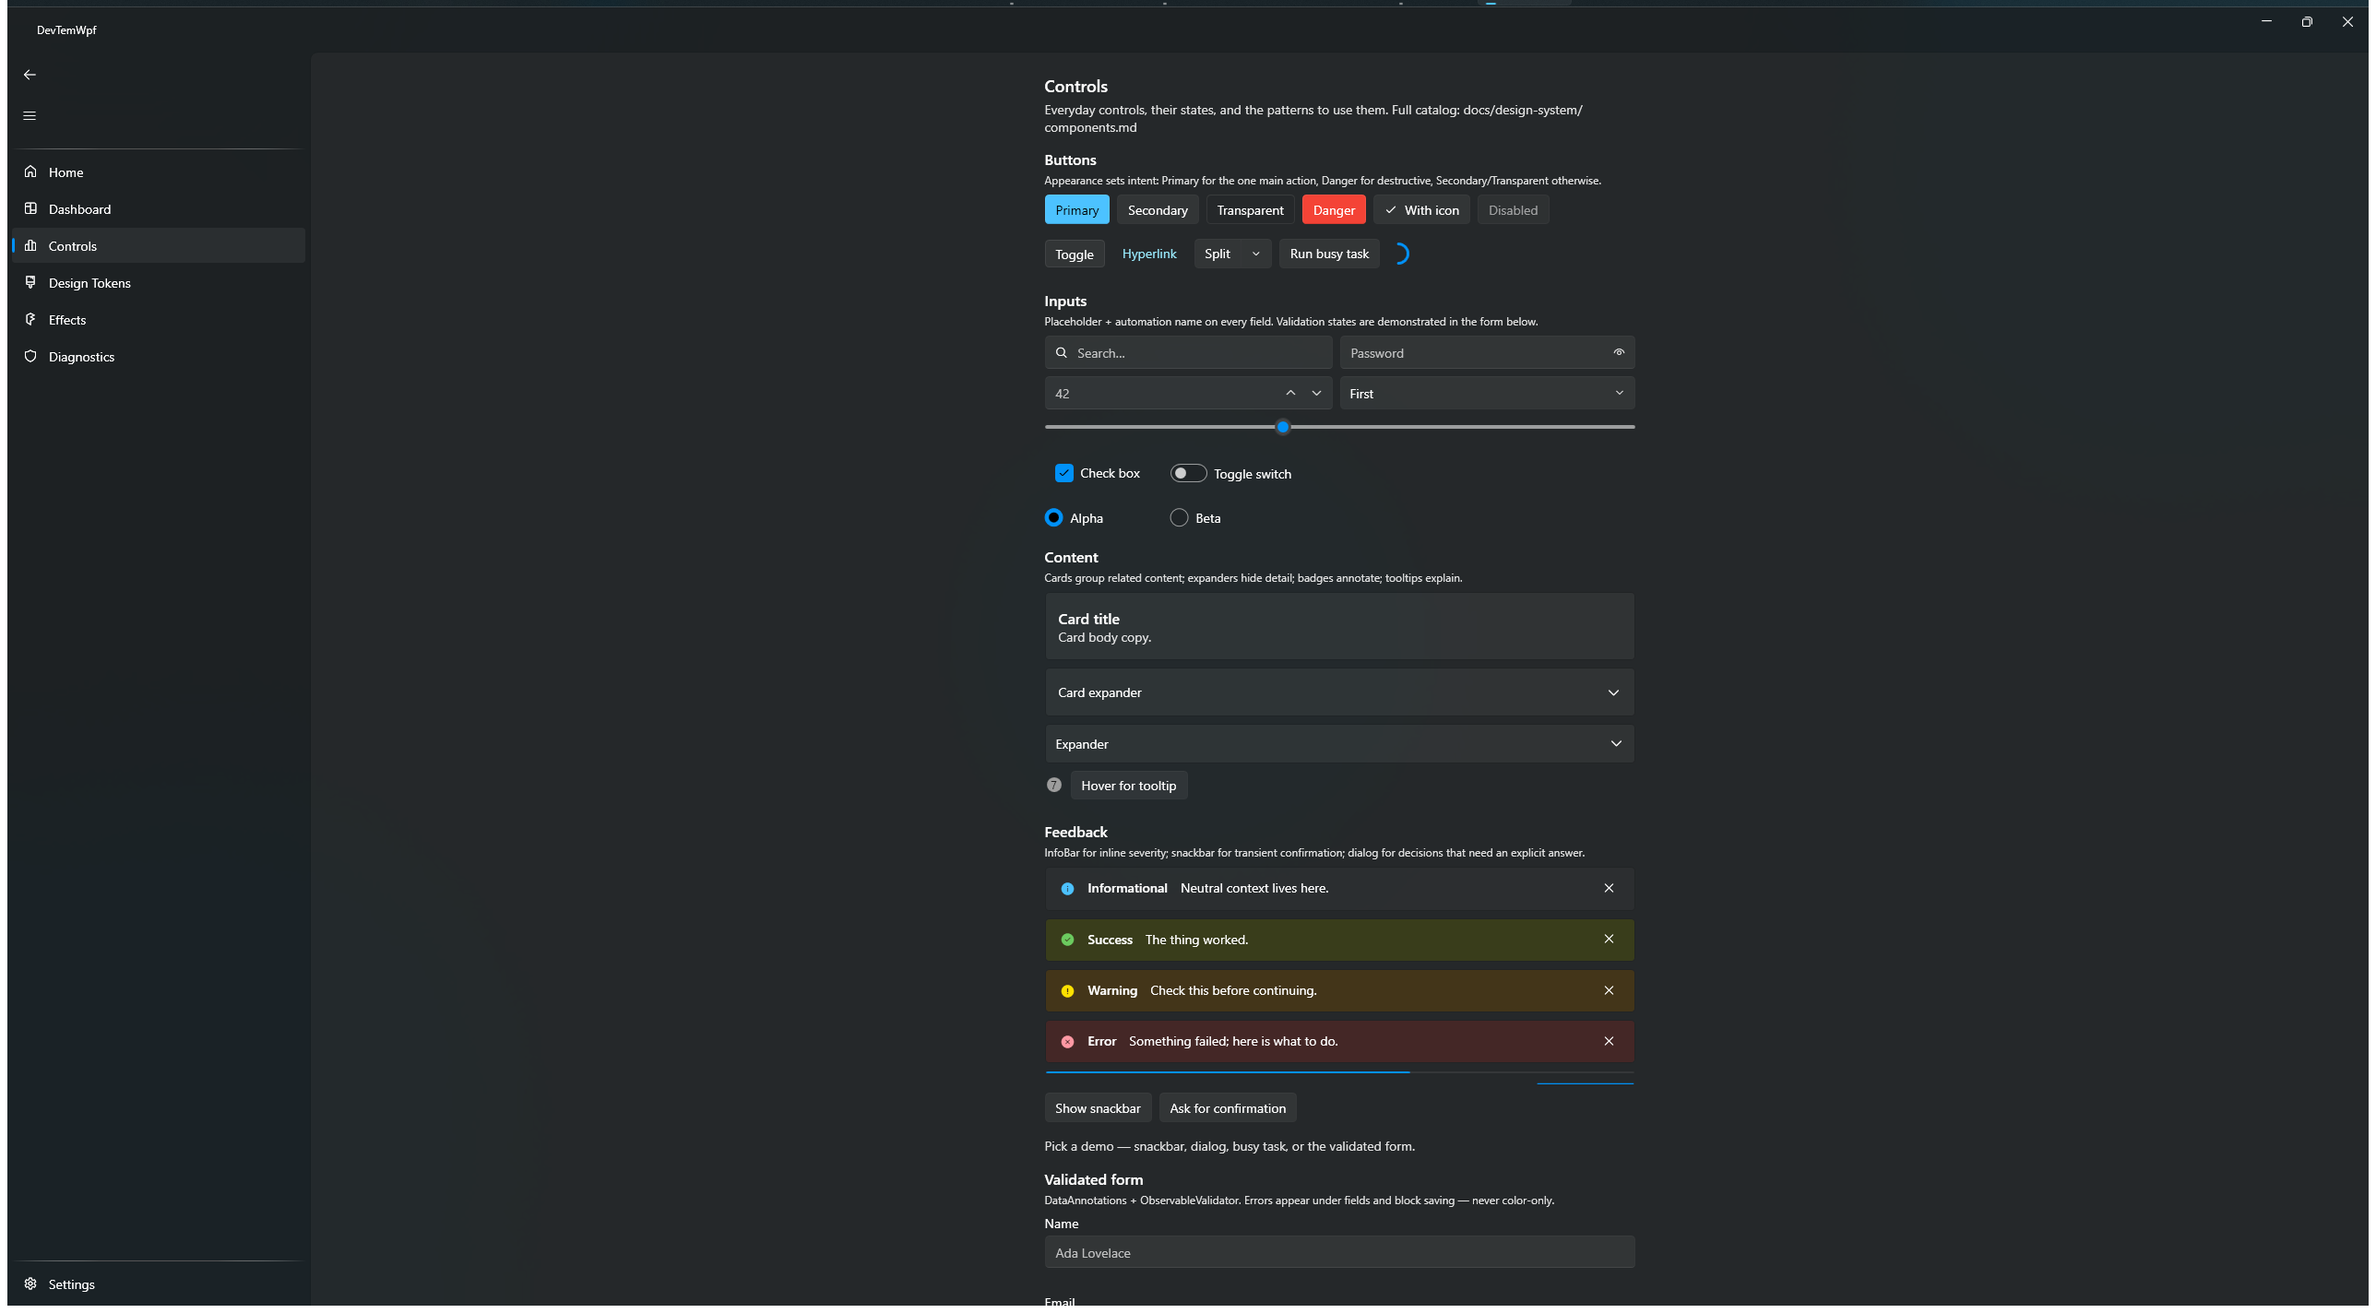
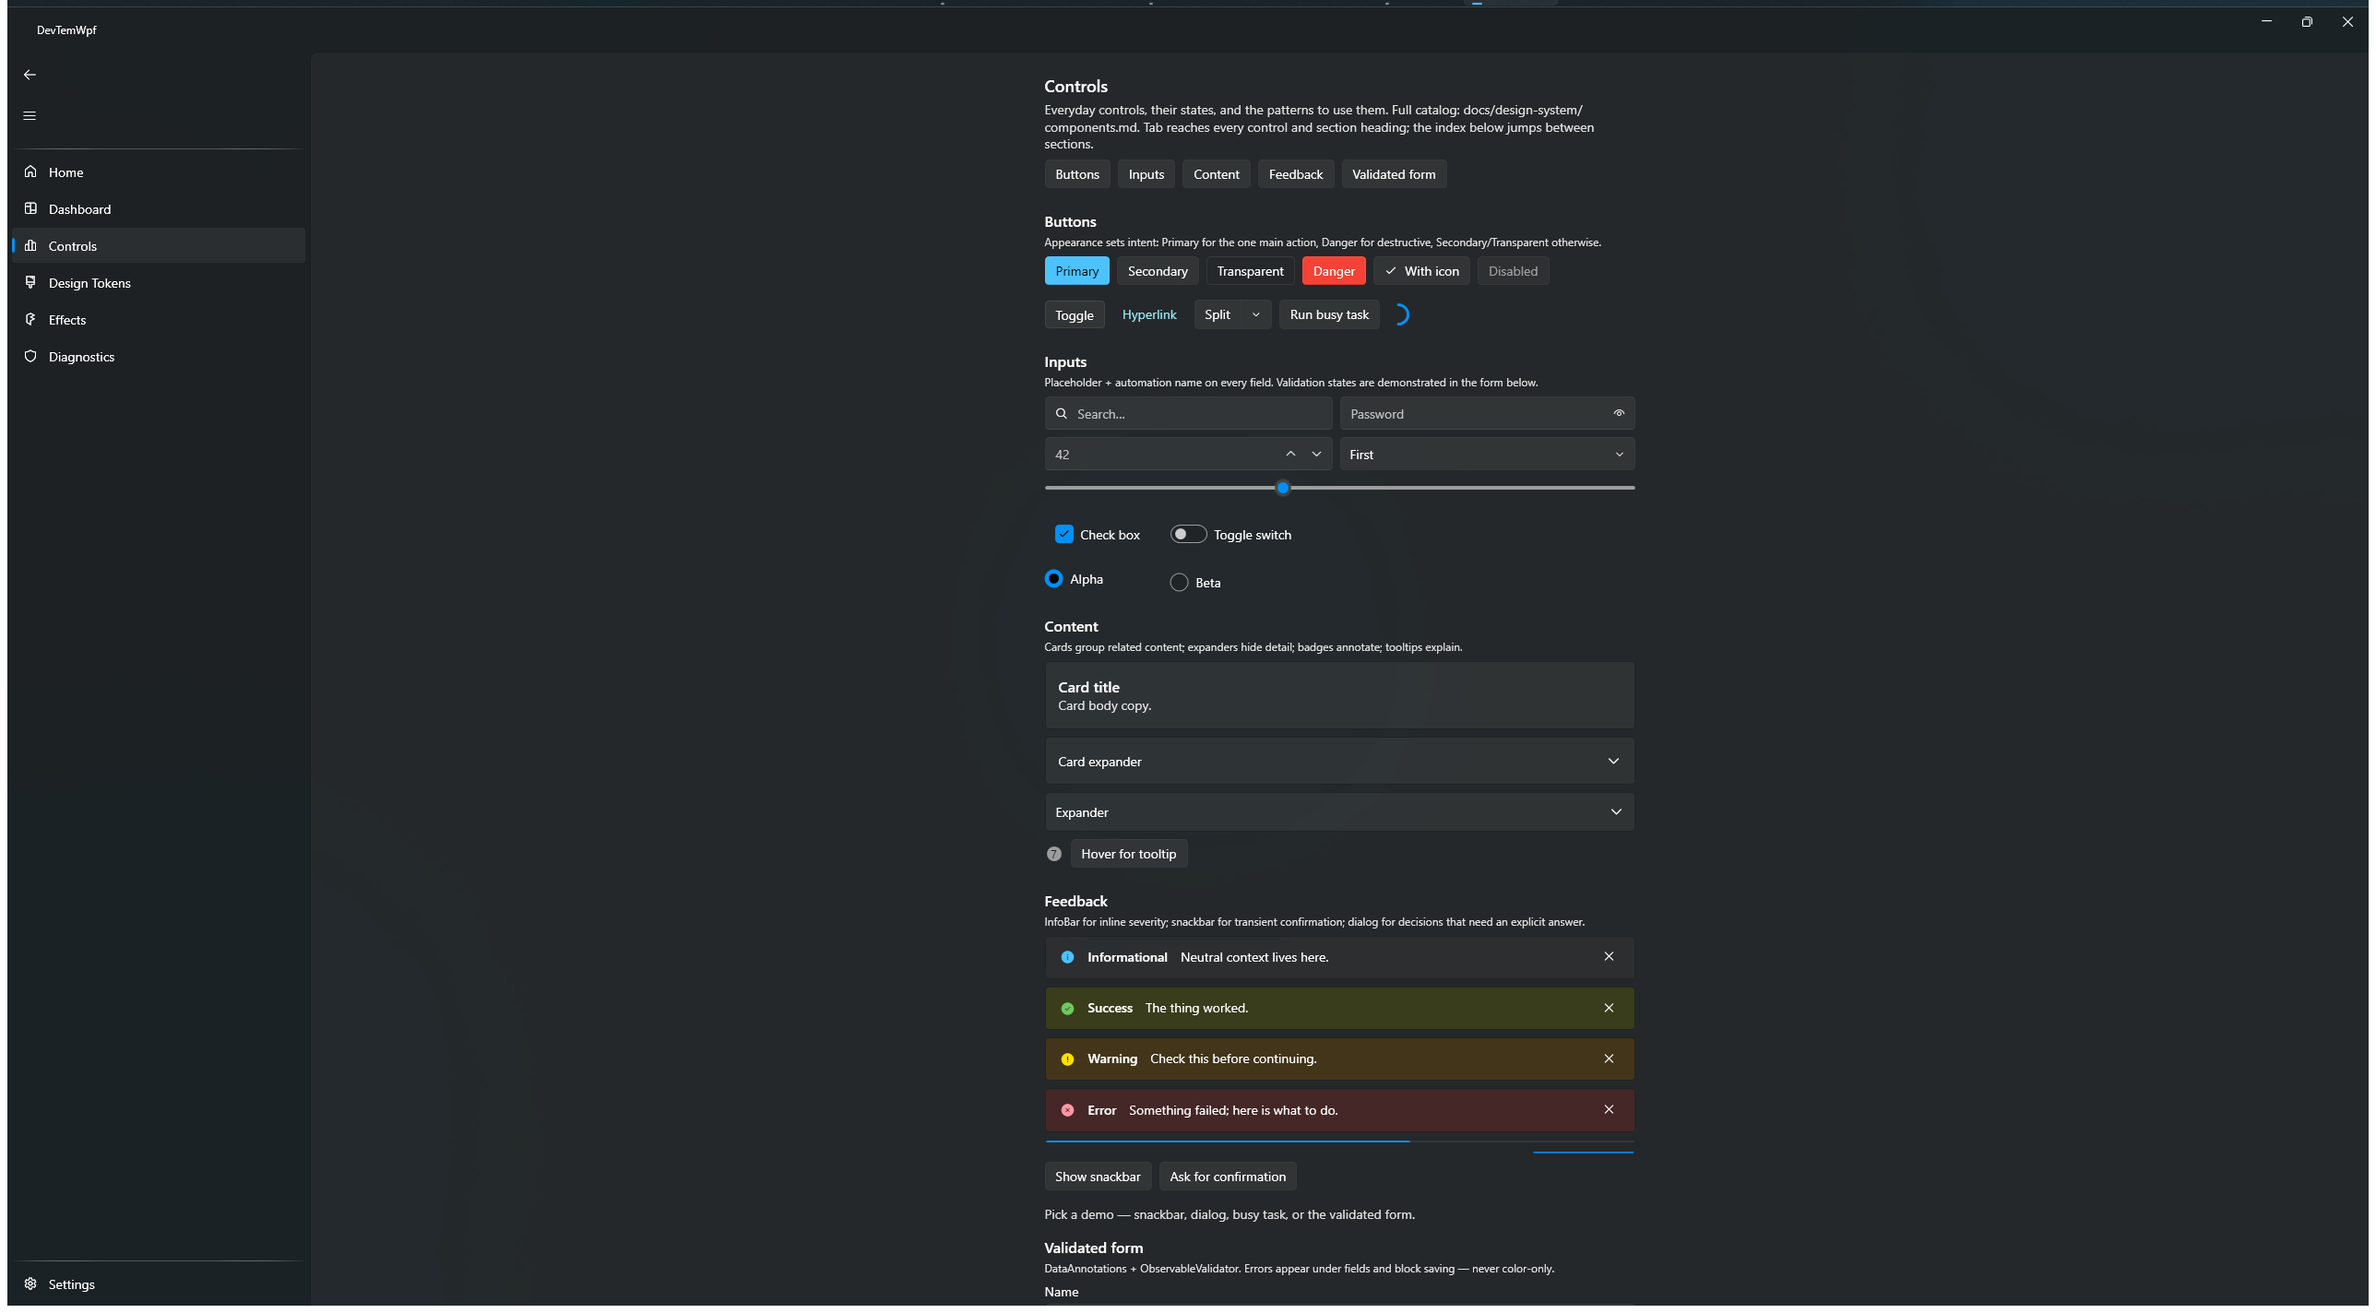
release(1.2.0): mechanics + completion report (T09/T12)
README 1.2.0 status + refreshed screenshots (incl. Light theme), CHANGELOG entry, DEFERRED D09r partial, pack 1.2.0. Report with full local evidence; remote push/PR/CI/tag/release pending.

Changed region(s): [[0.4348, 0.5253, 0.7143, 0.9888], [0.4348, 0.0927, 0.6832, 0.4944], [0.4969, 0.9579, 0.528, 0.9888]]

diff --git a/docs/releases/1.2.0-report.md b/docs/releases/1.2.0-report.md
@@ -1,0 +1,165 @@
+# 1.2.0 — Visual-System Upgrade Completion Report
+
+- Status: Complete
+- Completed: 2026-10-14
+- Plan: `docs/releases/1.2.0-plan.md` (Ready before implementation; all T01–T12 executed)
+- Final commit: (merge of PR #2, recorded below)
+- Pull request / merge: pending (see §10)
+- GitHub Release: pending `v1.2.0` + `DevTemWPF.Templates.1.2.0.nupkg` (see §10)
+- NuGet: not published — owner action (same standing as 1.0.0/1.1.0)
+
+## 1. Delivered outcome
+
+The reference app is now a coherent, token-driven showcase: gap rhythm
+comes from seven `AppGap*` tokens in both densities (Comfortable preserves
+the 1.1.0 look; Compact provably tightens it), every page shares the
+title/description/max-width standard, the gallery has a keyboard/mouse
+section index, the dashboard scrolls on short windows without losing
+virtualization, and an honest dependency-free visual-regression spike with
+committed baselines watches the three stable pages. No new controls, no
+new packages, no breaking changes.
+
+## 2. Acceptance criteria and task audit
+
+| ID | Expected result | Outcome | Evidence |
+|---|---|---|---|
+| AC01 | Shared token/layout standards | Passed | `XamlTokenTests` (4 cases) green — retired literals absent, gap refs resolve, densities differ, MaxWidth standard kept (Dashboard excepted by design) |
+| AC02 | Gallery with index, notes, states | Passed | Index screenshots + `GalleryIndex_JumpsToSection_AndMovesFocus` green (focus lands on heading); state coverage reviewed (native/disabled/invalid/loading/InfoBar/empty present) |
+| AC03 | Shell/dashboard at sizes + DPI | Passed | `Resize_PreservesNavigationAndContent` green (min-clamp 640×480, presence at 640/1024/1280/1600, narrow gallery navigation); 660×800 screenshots (rail collapse, dashboard scroll) |
+| AC04 | HC/keyboard/reduced-motion usable | Passed | `ThemeSwitch_LightDark_KeepsContent` green; keyboard walks green; theme-chain allowlist green; contrast contract doc; manual light/dark screenshots reviewed |
+| AC05 | Baseline changes human-reviewed | Passed | Spike caught a real capture-side miss (11% wrong-page diff, reviewed, fixed); no auto-approve path exists in the script |
+| AC06 | Perf budgets hold | Passed | 0.83 s / 144.7 MB / idle 0% vs 0.84 s / 146.3 MB before (same machine, within noise) |
+| AC07 | `v1.1.0` untouched; additive `1.2.0` | Passed | No tag/move ops; work on `work/1.2.0` only |
+| T01 | Baseline | Complete | 85/85, 0.84 s / 146.3 MB before |
+| T02 | Gap tokens + guards | Complete | `9e9afe8` (+ `TokensPage` bracket fix in same slice) |
+| T03/T04 | Headers + gallery | Complete | `4944a9f` (+ revert/re-apply saga documented below) |
+| T05 | Rail/dashboard audit | Complete | `8c94055`; audit screenshots; toolkit gaps filed as known issues |
+| T06 | VR spike | Complete | `9f82275` (+ capture generalization and foreground fix) |
+| T07/T08 | Contrast + UI tests | Complete | `d3490ea`; UI 7/7 |
+| T09–T12 | Docs/perf/gate/release | Complete | This report; release mechanics below |
+
+Process notes (honest): a `replaceAll` edit doubled a bracket on
+`TokensPage.xaml:37` (caught by build, fixed); a test insert landed inside
+`Dispose` (reverted via `git checkout --`, re-applied cleanly); the first
+`compare-screenshots.ps1` draft never parsed in PS 5.1 (rewrote with
+minimal C# — parses and runs). No shortcuts taken around any of them.
+
+## 3. Research and architecture decisions
+
+- Gap tokens as `Thickness` (not the existing `Double`s): asymmetric
+  bottom-flow gaps need Thickness; Doubles stay for scalar/code use
+  (documented in `tokens.md`).
+- Comfortable preserves the 1.1.0 rhythm exactly; Compact tightens
+  (measured 9.04% Controls / 5.49% Settings pixel change) — tokenization
+  without a surprise redesign.
+- `0,4,0,*` optical lead-ins stay literal as the documented
+  density-invariant exception; content sizes stay literal.
+- Visual regression: custom LockBits comparer, zero packages (Verify
+  rejected on post-2026-09-01 binary fee terms); Dashboard excluded
+  (volatile timestamps); advisory-only in 1.2.0, gate decision → 1.3.0.
+- Contrast: chain-integrity automation + documented contract + manual
+  screenshot review (upstream values resolve inside theme dictionaries;
+  no numbers invented).
+- Card-name gap: `ui:Card` does not surface `AutomationProperties.Name`
+  (all three card names absent maximized; inner content present) — kept in
+  XAML (forward-compatible), covered by inner-element names, filed as known
+  issue. Chart white-in-dark is D17 (→ 1.3.0), observed not fixed.
+- Theme-test dropdown lesson: an open ComboBox popup swallows the next
+  click — test now collapses explicitly (product behavior correct).
+
+## 4. Tests, CI, and exact commands
+
+Environment: Windows 11 build 26300.9711, .NET SDK 10.0.402, branch
+`work/1.2.0`, interactive session. Counts: **95 total** (87 unit + 1
+integration + 7 UI), 0 failed, 0 skipped.
+
+| Check | Command/run | Result |
+|---|---|---|
+| Full suite (smoke) | `eng/smoke.ps1` | SMOKE PASSED (Debug + Release 0 warnings, 95/95, launch OK) |
+| UI gate | `eng/check-ui-tests.ps1` | `UI_TESTS total=7 failed=0 skipped=0 succeeded=7`, exit 0 |
+| Guard red-proof (tokens) | temp literal reintroduced | `Views_UseGapTokens_NoRetiredLiterals` failed as designed; reverted |
+| VR advisory (same UI) | `eng/compare-screenshots.ps1` | 0.03–0.05% all pages, CLEAN |
+| VR sensitivity (Compact) | density flip + compare | 9.04% / 5.49% FAIL with reviewed rhythm diff |
+| VR miss detection | (capture-side nav miss) | 11% FAIL, diff reviewed, script fixed, re-run CLEAN |
+| Source matrix | `eng/test-templates.ps1` | TEMPLATE MATRIX PASSED, exit 0 |
+| Package matrix | `eng/test-templates.ps1 -PackagePath …1.2.0.nupkg` | TEMPLATE MATRIX PASSED, exit 0; registrations hash-identical; no leaks |
+| Vuln / deprecated | `--vulnerable` / `--deprecated --include-transitive` | 0 / 0, all projects; no pin changes |
+| Remote CI | trio on PR | **Pending push** (§10) |
+
+## 5. Performance results
+
+Same machine as 1.1.0 (MSI MS-7E28, Ryzen 8700G, 32 GB, 2560×1440,
+26300.9711). Proxy hardware — no 8 GB claim (D10 still pending).
+
+| Metric | 1.2.0-before | 1.2.0-after | Budget | Status |
+|---|---|---|---|---|
+| Cold start median (5 runs) | 0.84 s (max 0.88) | **0.83 s** (max 0.88) | ≤ 1.2 s | Hold |
+| Working set median | 146.3 MB (max 147.1) | **144.7 MB** (max 146.2) | ≤ 150 MB | Hold |
+| Idle 30 s CPU | 0% (1.1.0) | **0%** (samples 0,0,0) | ~0% | Hold |
+| Working set after idle | 137.8 MB (1.1.0) | 139.5 MB | Info | Noise |
+
+## 6. Accessibility and visual verification
+
+- Keyboard: gallery index buttons + focusable section headings; focus-move
+  asserted by UI test; existing Tab walks green; attempted narrow-viewport
+  keyboard-only flows unaffected (no behavior change).
+- Theme: Light/Dark round-trip UI test green; manual screenshots reviewed
+  (dark gallery + light Settings); high-contrast usable by token design
+  (no blur/gradient-carried meaning); no state by color alone (per contract).
+- Reduced motion: untouched paths; entrance/effects unchanged.
+- Layout: 660×800 screenshots (rail collapse, scrolled dashboard with all
+  9 inner names present); 640–1600 UI resize assertions green.
+- Baselines: Home/Controls/Settings committed after human review; README
+  images refreshed with provenance; light Settings shot added.
+
+## 7. Generated template / package / installer verification
+
+- Pack: `dotnet pack templates/pack/DevTemWPF.Templates.csproj -c Release -o artifacts/packages`
+  → `DevTemWPF.Templates.1.2.0.nupkg`,
[1 lines of base64/hex data omitted]
+  (work-branch pack; repack from `main` at release, hash recorded then).
+- Both matrices PASSED with identical scope (presets + FullNoTests + items);
+  residue/directive/module checks green in both; `TemplateSurfaceTests`
+  green untouched (no template.json changes).
+- MSIX/Store/signing: N/A (unchanged, owner-controlled).
+
+## 8. Dependency, license, and security audit
+
+No pin changes (`Directory.Packages.props` untouched); 0 vulnerable, 0
+deprecated; `NOTICE-THIRD-PARTY.md` still agrees (no new packages);
+secret scan pattern from 1.1.0 has nothing new to flag (no auth/telemetry
+code added). `docs/DEPENDENCIES.md` update only if release needs it (no).
+
+## 9. Known issues and deferred work
+
+- `ui:Card` automation names do not surface (toolkit gap; inner elements named).
+- Chart white background in dark theme (D17 → 1.3.0).
+- VR required-gate decision → 1.3.0 with this spike's evidence.
+- `dotnet pack` readme nicety (pre-existing, consider `PackageReadmeFile` later).
+- Remote CI unobserved until push (§10); `nuget.org` is an owner step.
+- Full 1.3.0 backlog per roadmap §8.3 (DataGrid/Tree/TimePicker, chart theming, gallery localization).
+
+## 10. Git, merge, and independent release-channel evidence
+
+| Channel | Required? | Artifact/version/hash | Verification | Remote status / URL |
+|---|---|---|---|---|
+| Branch commits | Yes | `work/1.2.0` (plan + 7 slices) | `git log`, `diff --check` clean | Local; push pending |
+| PR + CI | Yes | CI trio (UI gate now 7 cases; matrices) | Local green; remote unobserved | Push + PR to create; merge only after green |
+| Tag `v1.2.0` | Yes | — | — | Create after merge; never move `v1.1.0` |
+| GitHub Release + nupkg | Yes | `DevTemWPF.Templates.1.2.0.nupkg` | Packed + matrix-verified locally | Publish after tag; verify remotely |
+| NuGet | No (owner step) | `DevTemWPF.Templates 1.2.0` | Pack metadata verified | Not published / owner action |
+
+## 11. Reproduction and recovery instructions
+
+```powershell
+git checkout work/1.2.0
+dotnet restore
+dotnet build -c Release --no-restore --warnaserror
+dotnet test -c Release --no-build
+powershell -ExecutionPolicy Bypass -File eng/smoke.ps1
+powershell -ExecutionPolicy Bypass -File eng/check-ui-tests.ps1
+powershell -ExecutionPolicy Bypass -File eng/compare-screenshots.ps1
+powershell -ExecutionPolicy Bypass -File eng/test-templates.ps1
+dotnet pack templates/pack/DevTemWPF.Templates.csproj -c Release -o artifacts/packages
+powershell -ExecutionPolicy Bypass -File eng/test-templates.ps1 -PackagePath (Get-ChildItem artifacts/packages/*.nupkg | Select-Object -First 1 -ExpandProperty FullName)
+```

diff --git a/README.md b/README.md
@@ -4,13 +4,13 @@
 [![Windows 11](https://img.shields.io/badge/Windows-11-0078D4)](https://www.microsoft.com/windows/windows-11)
 [![WPF-UI 4.3.0](https://img.shields.io/badge/WPF--UI-4.3.0-8A2BE2)](https://github.com/lepoco/wpfui)
 [![License: MIT](https://img.shields.io/badge/License-MIT-green)](LICENSE)
-[![Stable 1.1.0](https://img.shields.io/badge/release-1.1.0-green)](https://github.com/Fettah010/wpf-11-app-template/releases)
+[![Stable 1.2.0](https://img.shields.io/badge/release-1.2.0-green)](https://github.com/Fettah010/wpf-11-app-template/releases)
 
 A premium, Windows 11-first **WPF application template** and reusable **UI
 foundation** — Fluent design, MVVM, dependency injection, modular production
 services, and `dotnet new` scaffolding with clean / recommended / full presets.
 
-> **Status:** `1.1.0` — stable. Install the template, generate your app,
+> **Status:** `1.2.0` — stable. Install the template, generate your app,
 > and ship it: `dotnet new install DevTemWPF.Templates` (see
 > [Roadmap](#roadmap--milestones) for what's next).
 >
@@ -49,14 +49,15 @@ powershell -ExecutionPolicy Bypass -File eng/smoke.ps1
 
 ## 🖼 Screenshots
 
-Reference app (`1.1.0`, dark/system theme) — Home shell and Controls gallery:
+Reference app (`1.2.0`, Comfortable density) — Home shell, Controls gallery
+with section index, and Settings in the Light theme:
 
-| Home | Controls gallery |
-|---|---|
-| ![Home shell](docs/images/gallery-home.png) | ![Controls gallery](docs/images/gallery-controls.png) |
+| Home | Controls gallery | Settings (Light) |
+|---|---|---|
+| ![Home shell](docs/images/gallery-home.png) | ![Controls gallery](docs/images/gallery-controls.png) | ![Settings in Light theme](docs/images/gallery-settings-light.png) |
 
 Captured 2026-10-14 on Windows 11 build 26300.9711, 2560×1440 display,
-maximized app window, default (system) theme. Recapture with
+maximized app window, system theme unless noted. Recapture with
 `powershell -ExecutionPolicy Bypass -File eng/capture-screenshots.ps1`
 when the shell changes; keep this provenance line accurate.
 
@@ -76,6 +77,7 @@ when the shell changes; keep this provenance line accurate.
 | `1.0.0-rc.1` | API freeze & candidate validation | ✅ Released |
 | `1.0.0` | Stable template and UI foundation | ✅ Released |
 | `1.1.0` | Stabilization and test truth | ✅ Released |
+| `1.2.0` | Visual-system upgrade | ✅ Released |
 
 Full product plan: [`WPF-11-App-Template-Roadmap-1.0-to-2.0.md`](WPF-11-App-Template-Roadmap-1.0-to-2.0.md) ·
 per-version plans/reports: [`docs/releases/`](docs/releases/) ·

diff --git a/CHANGELOG.md b/CHANGELOG.md
@@ -1,5 +1,29 @@
 # Changelog
 
+## 1.2.0 (2026-10-14)
+
+Visual-system upgrade. No new controls, no new packages, no breaking changes.
+
+- Token-driven gap rhythm: seven `AppGap*` Thickness tokens in both
+  densities (Comfortable preserves the 1.1.0 look; Compact visibly
+  tightens it — 9% pixels on Controls). All 7 Views converted; retired
+  literals enforced by `XamlTokenTests`.
+- Gallery: category index with anchor scroll + keyboard focus move,
+  focusable section headings, keyboard note; new
+  `GalleryIndex_JumpsToSection_AndMovesFocus` UI test.
+- Dashboard: standard title/description header; page scrolls on short
+  windows (table keeps fixed-height virtualization).
+- Rail/sidebar + dashboard audit: rail collapses below 800 px, selection
+  and persistence verified; no product changes needed beyond the above.
+- Visual-regression spike: `eng/compare-screenshots.ps1` (tolerant pixel
+  diff, masks, red-overlay artifacts, never auto-approves) + committed
+  baselines; advisory-only in 1.2.0 (same-UI noise 0.03%).
+- Contrast contract in `docs/design-system/tokens.md`; theme chain
+  allowlisted by `ThemeTokenChainTests`. Light/Dark round-trip and
+  640–1600 px resize covered by new UI tests.
+- Known toolkit gaps (not fixed): `ui:Card` automation names do not
+  surface; chart unthemed in dark (D17, → 1.3.0).
+
 ## 1.1.0 (2026-10-14)
 
 Stabilization and test truth. No new features; no breaking changes.

diff --git a/docs/DEFERRED.md b/docs/DEFERRED.md
@@ -10,7 +10,7 @@ post-1.0 unless marked **1.0**.
 | D07t | System toast notifications | Post-1.0 — MSIX-gated. |
 | D07s | Release signing execution (real cert) | Post-1.0 — app-level concern; guidance published. |
 | D08r | VSIX / VS Add-Item integration | Post-1.0 — CLI templates surface in VS already. |
-| D09r | Visual regression snapshots | Post-1.0 — no snapshot infra; review is manual. |
+| D09r | Visual regression snapshots | **1.2.0 (partial)** — dependency-free spike shipped (`eng/compare-screenshots.ps1` + baselines, advisory-only, 0.03% noise floor proven). Required-gate decision → 1.3.0 with this evidence. |
 | D10 | Low-spec reference machine | Post-1.0 — no hardware; modern-HW budgets ratified. |
 | D12 | `Microsoft.ApplicationInsights` test-only transitive | Watch each audit — still test-only, still harmless. |
 | D13 | HLSL water-warp shader | Post-1.0 — needs toolchain + low-spec proof (D10). |
